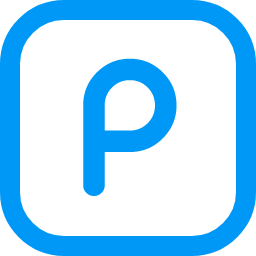
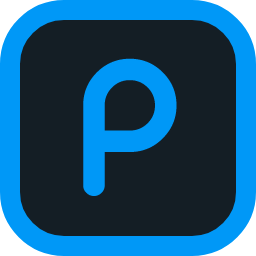
refactor: update some files and assets

diff --git a/app/renderer/src/components/TraySVG.tsx b/app/renderer/src/components/TraySVG.tsx
@@ -10,11 +10,11 @@ export const TraySVG: React.FC<Props> = ({ timerType, dashOffset }) => {
 	const getProgressColor = (opacity = 1) => {
 		switch (timerType) {
 			case "STAY_FOCUS":
-				return "#0057A3";
+				return `rgba(0, 152, 247, ${opacity})`;
 			case "SHORT_BREAK":
-				return "#006649";
+				return `rgba(7, 181, 131, ${opacity})`;
 			default:
-				return "#7C4E03";
+				return `rgba(212, 141, 10, ${opacity})`;
 		}
 	};
 
@@ -31,8 +31,8 @@ export const TraySVG: React.FC<Props> = ({ timerType, dashOffset }) => {
 			<g transform="translate(-353 -961)">
 				<g
 					transform="translate(353 961)"
-					fill="#fff"
-					stroke="#fff"
+					fill="#111d25"
+					stroke={getProgressColor(0.75)}
 					strokeWidth="1"
 				>
 					<rect width="16" height="16" rx="4" stroke="none" />
@@ -44,7 +44,7 @@ export const TraySVG: React.FC<Props> = ({ timerType, dashOffset }) => {
 					r="4"
 					transform="translate(357 965)"
 					fill="transparent"
-					stroke="rgba(0, 0, 0, 0.24)"
+					stroke="rgba(255, 255, 255, 0.12)"
 					strokeWidth="2"
 				/>
 				<circle

diff --git a/app/main/src/helpers/getIcon.ts b/app/main/src/helpers/getIcon.ts
@@ -3,10 +3,10 @@ import path from "path";
 export function getIcon() {
 	switch (process.platform) {
 		case "darwin":
-			return path.join(__dirname, "../assets/logo@2x.png");
+			return path.join(__dirname, "../assets/logo-dark@2x.png");
 		case "linux":
-			return path.join(__dirname, "../assets/logo.png");
+			return path.join(__dirname, "../assets/logo-dark.png");
 		default:
-			return path.join(__dirname, "../assets/logo.ico");
+			return path.join(__dirname, "../assets/logo-dark.ico");
 	}
 }

diff --git a/app/renderer/src/contexts/CounterContext.tsx b/app/renderer/src/contexts/CounterContext.tsx
@@ -28,7 +28,7 @@ import sixtySecondsLeftShortBreak from "assets/audios/sixty-seconds-left-short-b
 import sixtySecondsLeftLongBreak from "assets/audios/sixty-seconds-left-long-break.wav";
 import thirtySecondsLeftToWork from "assets/audios/thirty-seconds-left-to-work.wav";
 
-import notificationIconDark from "assets/logos/notification.png";
+import notificationIconDark from "assets/logos/notification-dark.png";
 
 type CounterProps = {
 	count: number;

diff --git a/app/main/src/main.ts b/app/main/src/main.ts
@@ -38,9 +38,9 @@ import "v8-compile-cache";
 
 const onProduction = app.isPackaged;
 
-const notificationIcon = path.join(__dirname, "./assets/notification.png");
+const notificationIcon = path.join(__dirname, "./assets/notification-dark.png");
 
-const trayIcon = path.join(__dirname, "./assets/tray.png");
+const trayIcon = path.join(__dirname, "./assets/tray-dark.png");
 
 const onlySingleIntance = app.requestSingleInstanceLock();
 
